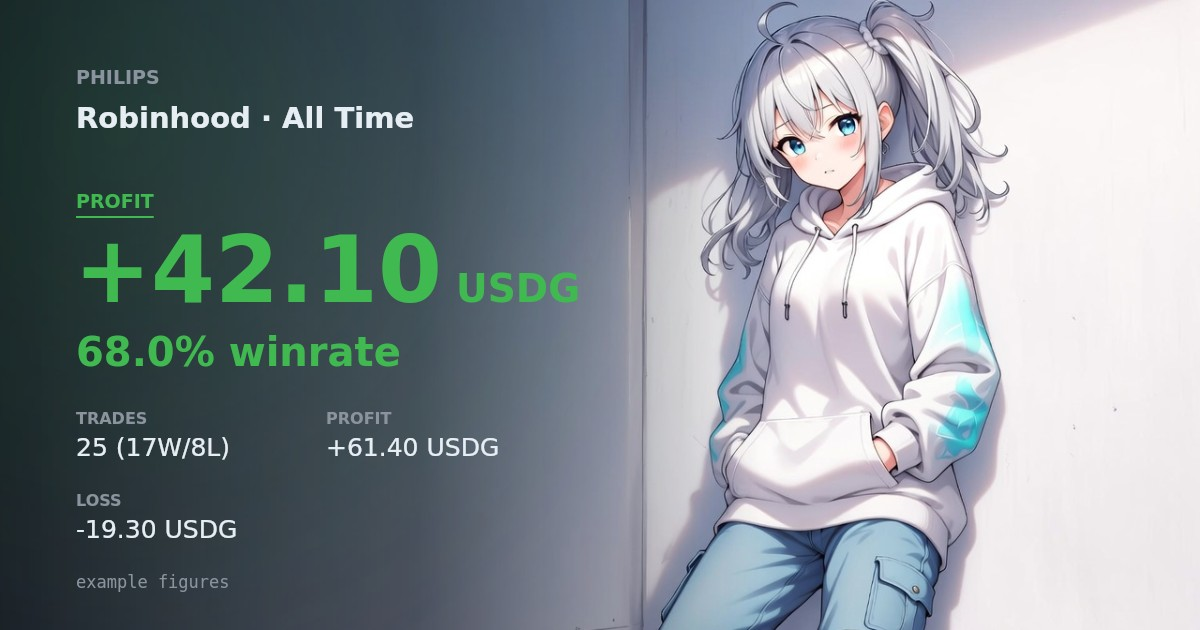
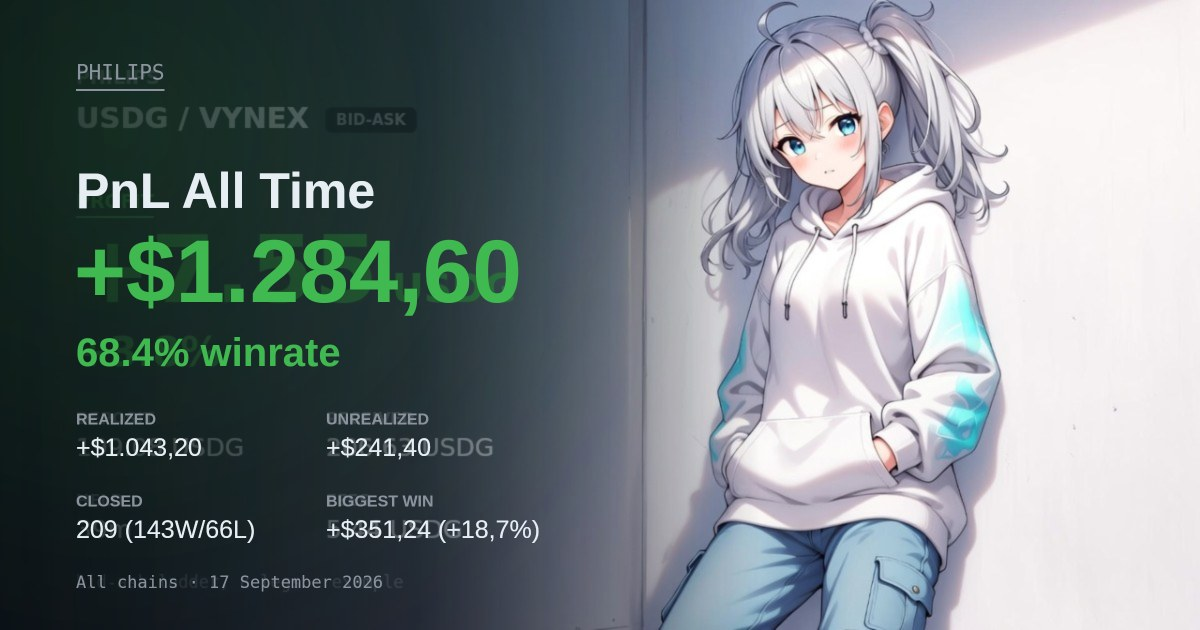
Updated

diff --git a/README.md b/README.md
@@ -284,9 +284,16 @@ way the bot withdraws the liquidity, collects the fees, swaps the token back to
 what you deposited, and sends you a result card: deposit, received, how long you held
 it, and the fees you earned.
 
-The artwork behind that card is just a file. Drop your own `data/PHILIPS ANIME.jpg`
-in and every card uses it instead. Wide images with the subject on one side work
-best; the text sits on the other.
+The artwork behind that card is just a file. The one that ships lives in
+`assets/pnl-card.jpg`; to use your own, send the bot a photo from `/settings` and it
+becomes the backdrop on every card from then on (it is saved to `data/pnl-bg.jpg`, and
+it wins over the shipped one). Wide images with the subject on one side work best; the
+text sits on the other.
+
+The card draws its text in Liberation Sans and DejaVu Mono. A server with **no fonts
+installed** renders the artwork and no text at all — install them with
+`apt install fonts-liberation fonts-dejavu-core fonts-dejavu-mono` (the one-command
+installer does this for you).
 
 The result is reported **in dollars**, each side priced at its own moment: the deposit at
 the rate stored when the position opened, the proceeds at the rate now. For a stablecoin
